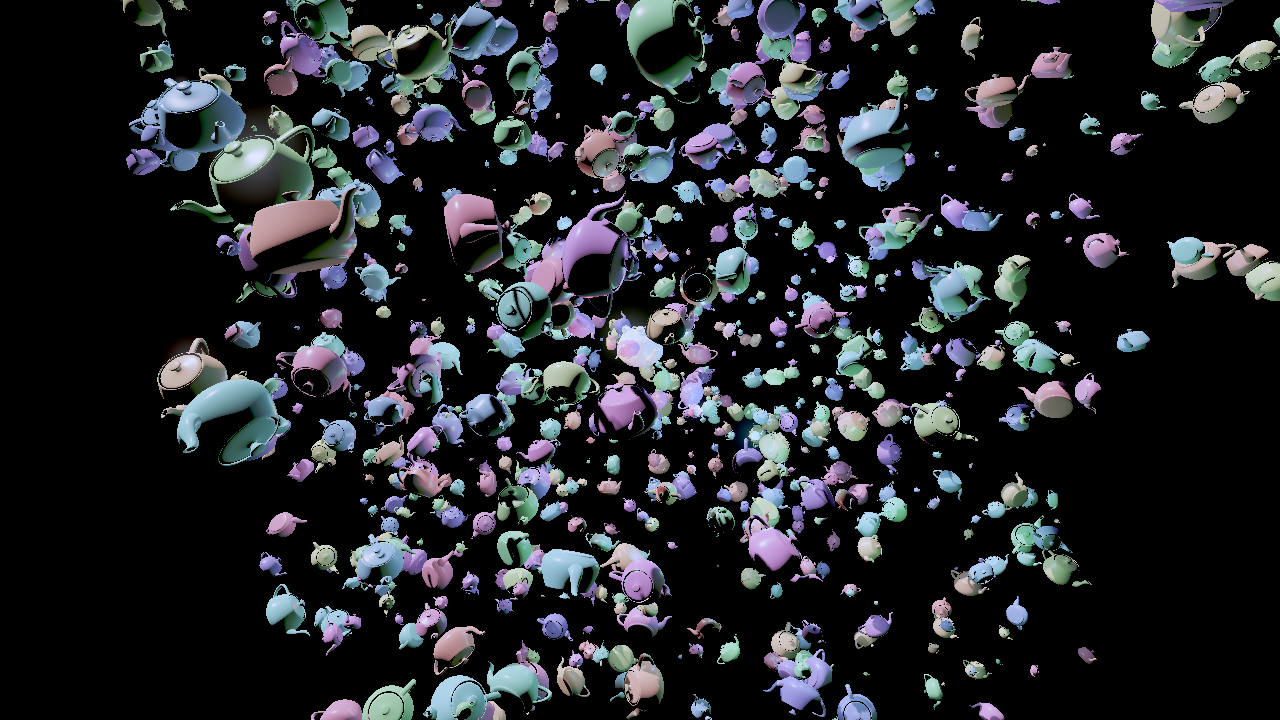
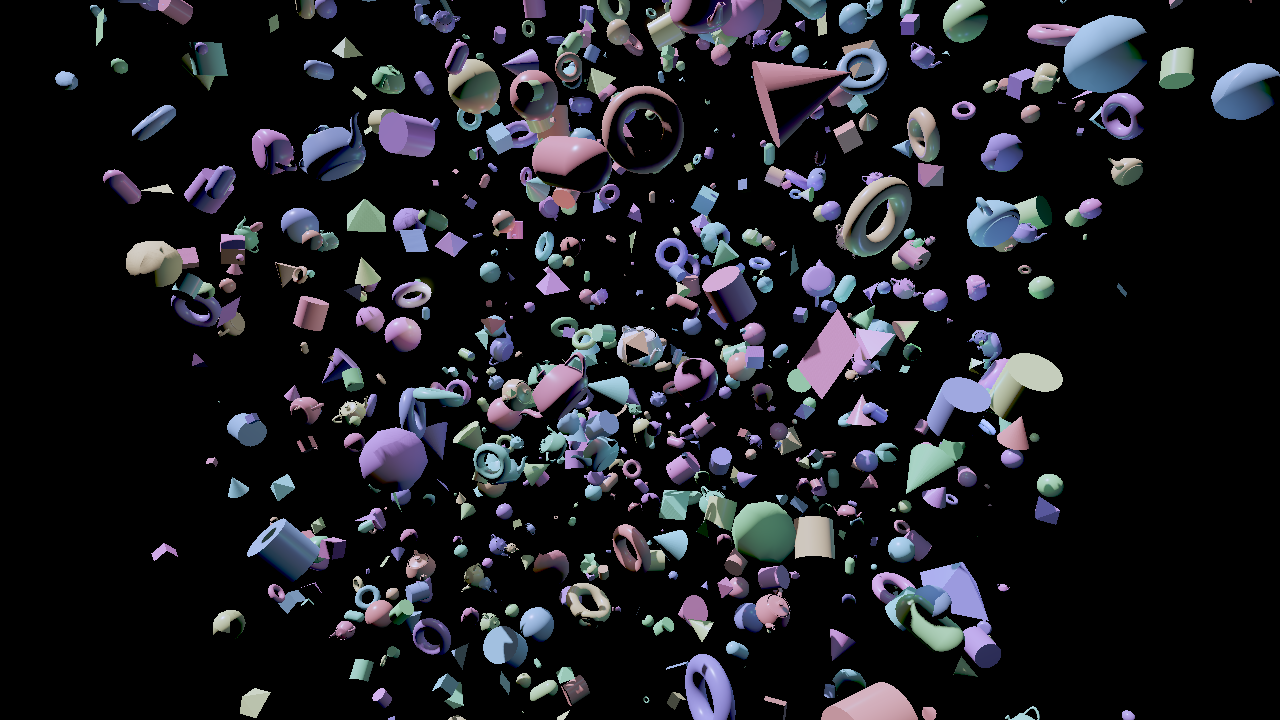
added many new objects

diff --git a/src/application.cpp b/src/application.cpp
@@ -15,6 +15,7 @@ module;
 #include <cstdlib>
 #include <random>
 #include <string>
+#include <filesystem>
 #include <vector>
 #include <gainput/gainput.h>
 #include <ScreenGrab.h>
@@ -347,6 +348,8 @@ void Application::update()
 
         std::uniform_real_distribution<float> hueDist(0.0f, 360.0f);
 
+        std::uniform_real_distribution<float> speedDist(0.1f, 0.5f);
+
         auto spawnOne = [&] {
             const vec3 axis =
                 normalize(vec3(axisDist(scene.rng), axisDist(scene.rng), axisDist(scene.rng)));
@@ -354,14 +357,21 @@ void Application::update()
                 vec3(axisDist(scene.rng), axisDist(scene.rng), axisDist(scene.rng)) *
                 this->cam.radius / 2.0f;
             const float s = scaleDist(scene.rng);
+            const float angle = angleDist(scene.rng);
             const mat4 world =
-                scale(s, s, s) * rotateAxis(axis, angleDist(scene.rng)) *
+                scale(s, s, s) * rotateAxis(axis, angle) *
                 translate(pos.x, pos.y, pos.z);
             Transform tf;
             tf.world = world;
             MeshRef mesh = scene.spawnableMeshRefs[meshDist(scene.rng)];
             mesh.albedoOverride = hslToLinear(hueDist(scene.rng), 0.7f, 0.65f);
-            scene.ecsWorld.entity().set(tf).set(mesh);
+
+            float orbitRadius = std::sqrt(pos.x * pos.x + pos.z * pos.z);
+            float orbitAngle = std::atan2(pos.z, pos.x);
+            Animated anim{ speedDist(scene.rng), orbitRadius, orbitAngle, pos.y,
+                           s, axis, angle, angleDist(scene.rng) };
+
+            scene.ecsWorld.entity().set(tf).set(mesh).set(anim);
         };
 
         int current = scene.ecsWorld.count<MeshRef>();
@@ -405,6 +415,17 @@ void Application::update()
     if (this->inputMap.GetBoolWasDown(Button::ScrollDown)) {
         this->cam.radius *= 1.25f;
     }
+
+    // Animate orbiting entities
+    scene.ecsWorld.each([&](Transform& tf, Animated& anim) {
+        anim.orbitAngle += anim.speed * dt;
+        float pulse = 1.0f + 0.15f * std::sin(lightTime * 2.0f + anim.pulsePhase);
+        float s = anim.initialScale * pulse;
+        vec3 pos(anim.orbitRadius * std::cos(anim.orbitAngle), anim.orbitY,
+                 anim.orbitRadius * std::sin(anim.orbitAngle));
+        tf.world = scale(s, s, s) * rotateAxis(anim.rotAxis, anim.rotAngle) *
+                   translate(pos.x, pos.y, pos.z);
+    });
 }
 
 void Application::render()
@@ -918,6 +939,14 @@ bool Application::loadContent()
     scene.createMegaBuffers(device.Get());
     scene.createDrawDataBuffers(device.Get());
     scene.loadTeapot(device.Get(), cmdQueue);
+
+    // Load all GLB models from resources/models/
+    for (const auto& entry : std::filesystem::directory_iterator(MODELS_DIR)) {
+        if (entry.path().extension() == ".glb") {
+            spdlog::info("Loading model: {}", entry.path().filename().string());
+            scene.loadGltf(entry.path().string(), device.Get(), cmdQueue, true);
+        }
+    }
 
     // DSV heap
     {

diff --git a/src/scene.cpp b/src/scene.cpp
@@ -412,7 +412,9 @@ void Scene::loadTeapot(ID3D12Device2* device, CommandQueue& cmdQueue)
 // Scene::loadGltf
 // ---------------------------------------------------------------------------
 
-bool Scene::loadGltf(const std::string& path, ID3D12Device2* device, CommandQueue& cmdQueue)
+bool Scene::loadGltf(
+    const std::string& path, ID3D12Device2* device, CommandQueue& cmdQueue, bool append
+)
 {
     spdlog::info("loadGltf: {}", path);
 
@@ -436,7 +438,11 @@ bool Scene::loadGltf(const std::string& path, ID3D12Device2* device, CommandQueu
         return false;
     }
 
-    clearScene(cmdQueue);
+    if (!append) {
+        clearScene(cmdQueue);
+    }
+
+    int materialBaseIdx = static_cast<int>(materials.size());
 
     if (model.materials.empty()) {
         Material def;
@@ -527,15 +533,18 @@ bool Scene::loadGltf(const std::string& path, ID3D12Device2* device, CommandQueu
                     }
                 }
 
-                int matIdx = (prim.material >= 0 && prim.material < (int)materials.size())
-                                 ? prim.material
-                                 : 0;
+                int matIdx =
+                    (prim.material >= 0)
+                        ? materialBaseIdx + prim.material
+                        : 0;
                 MeshRef meshRef =
                     appendToMegaBuffers(cmdList, verts, indices, matIdx, uploadTemps);
                 spawnableMeshRefs.push_back(meshRef);
-                Transform tf;
-                tf.world = worldTf;
-                ecsWorld.entity().set(tf).set(meshRef);
+                if (!append) {
+                    Transform tf;
+                    tf.world = worldTf;
+                    ecsWorld.entity().set(tf).set(meshRef);
+                }
             }
         }
 

diff --git a/AGENTS.md b/AGENTS.md
@@ -29,10 +29,11 @@ cmake --build build --config Release
 ### Rules
 - After any change: build then run `--test` and inspect `screenshot.png`
 - **After finishing every task**: always run `--test`, read `screenshot.png` with the Read tool, and visually verify the result looks correct before reporting done
+- **After every change**: update `AGENTS.md` to reflect any new or modified architecture, modules, rendering pipeline steps, UI panels, key patterns, or dependencies. Keep it accurate and current.
 - Before commiting:
   - `git pull`
   - Run clang-tidy and clang-format on all source and header files
-  - Make updates to `AGENTS.md`
+  - Verify `AGENTS.md` is up to date
 
 ---
 
@@ -52,7 +53,7 @@ From-scratch DirectX 12 renderer. C++23 modules, Clang, Windows-only.
 | `camera.ixx`        | Base Camera + OrbitCamera (spherical yaw/pitch/radius)                       |
 | `input.ixx`         | Button/Key enums, gainput integration                                        |
 | `common.ixx`        | Math types (vec2/3/4, mat4), `chkDX()`, `_deg`/`_KB`/`_MB` literals          |
-| `ecs_components.ixx`| ECS components: `Transform` (mat4 world), `MeshRef` (mega-buffer offsets)    |
+| `ecs_components.ixx`| ECS components: `Transform`, `MeshRef`, `Animated` (orbit + pulse)           |
 | `shader_hotreload.ixx` | `ShaderCompiler` class — watches HLSL files, recompiles via DXC at runtime |
 | `logging.ixx`       | spdlog setup with custom error sink                                          |
 
@@ -80,20 +81,25 @@ Application owns three subsystem instances: `Scene scene`, `BloomRenderer bloom`
 ### Application class (`src/application.cpp`)
 Thin orchestrator — owns the render loop, swap chain, scene PSO, and input:
 - **Swap chain**: triple-buffered, `R8G8B8A8_UNORM`.
-- **Scene PSO + root signature**: SRV descriptor table + 1 root constant (`drawIndex`).
+- **Root signature**: 3 root params — SRV descriptor table (t0, structured buffer), 1 root constant (`drawIndex`, b0), SRV descriptor table (t1, shadow map). Static comparison sampler (s0) for shadow PCF.
+- **Scene PSO**: standard rasterization to HDR RT. **Shadow PSO**: depth-only, front-face culling, depth bias.
 - **Vertex format**: `VertexPBR` — position (float3), normal (float3), UV (float2).
 - Delegates to subsystems: `scene.*`, `bloom.*`, `imguiLayer.*`.
-- **Shader hot reload**: polls `.hlsl` timestamps every 0.5s in `update()`, recompiles via `dxc.exe`, recreates PSOs. Scene PSO via `createScenePSO()`, bloom PSOs via `bloom.reloadPipelines()`. Enabled automatically when `DXC_PATH` and `SHADER_SRC_DIR` are set (CMake provides both).
+- **Shader hot reload**: polls `.hlsl` timestamps every 0.5s in `update()`, recompiles via `dxc.exe`, recreates PSOs. Scene PSO + shadow PSO via `createScenePSO()` / `createShadowPSO()`, bloom PSOs via `bloom.reloadPipelines()`. Enabled automatically when `DXC_PATH` and `SHADER_SRC_DIR` are set (CMake provides both).
+- **Animation system**: `update()` runs `ecsWorld.each<Transform, Animated>()` — orbits entities around the Y axis at individual speeds, applies sinusoidal scale pulse (±15%). Central teapot has no `Animated` component and stays stationary.
 
 ### Rendering pipeline
 
 ```
 update()  →  render()
-              ├─ Scene pass       (HDR RT, depth, per-mesh draw calls)
+              ├─ Shadow pass      (depth-only to 2048² shadow map, directional light ortho VP)
+              ├─ Scene pass       (HDR RT, depth, per-mesh draw calls, samples shadow map)
               ├─ Bloom prefilter  → downsample chain → upsample chain
               ├─ Composite        (HDR + bloom → swap chain backbuffer)
               └─ ImGui overlay    (directly to backbuffer)
 ```
+
+**Shadow mapping**: 2048×2048 `R32_TYPELESS`/`D32_FLOAT` depth texture. Orthographic projection from directional light. 3×3 PCF via `SampleCmpLevelZero`. Shadow draw data stored at structured buffer offset `entityCount` (same model transforms, light viewProj). Shadow PSO uses front-face culling + depth bias to reduce peter-panning/acne.
 
 **Bloom**: 5-mip chain — prefilter (Karis average, soft threshold), 4× downsample, 4× upsample (tent filter, additive blend).
 
@@ -105,20 +111,24 @@ Cook-Torrance BRDF:
 - **Geometry**: Smith + Schlick-GGX
 - **Fresnel**: Schlick approximation
 - **Inputs** (from `SceneConstantBuffer`): albedo RGBA, roughness, metallic, emissive color + strength
-- Single punctual light with scaled inverse-square attenuation (`1 / max(d² × 0.01, ε)`).
+- 8 animated point lights with scaled inverse-square attenuation (`1 / max(d² × 0.01, ε)`).
+- 1 directional light (shadow-casting) — direction, color, brightness configurable in UI.
 
 ### Scene loading
 - **Default**: teapot OBJ embedded as Win32 resource (`IDR_TEAPOT_OBJ`/`IDR_TEAPOT_MTL`).
+- **Startup model loading**: all `.glb` files in `resources/models/` are loaded automatically at startup via `MODELS_DIR` (CMake-defined). Spawned entities pick randomly from all loaded mesh refs.
 - **GLB/glTF**: tinygltf v2.9.5 via FetchContent. Load from UI "Load GLB" panel (type path, press Load).
   - Supports binary GLB and ASCII glTF.
   - Extracts POSITION, NORMAL, TEXCOORD_0, indices (any component type).
   - Loads PBR metallic-roughness material factors (base color, roughness, metallic, emissive).
   - Traverses node hierarchy with TRS / matrix transforms.
+- **Model files**: stored in `resources/models/` (teapot.obj/mtl + GLB primitives).
 
 ### ImGui UI panels
 - **Bloom**: threshold, intensity sliders.
 - **Tonemapping**: tonemapper combo.
-- **Scene**: background color, light brightness, ambient brightness.
+- **Scene**: background color; directional light direction/color/brightness; point light brightness; ambient brightness.
+- **Shadows**: enable/disable, bias slider.
 - **Material**: albedo, roughness, metallic, emissive color + strength. Material selector when GLB has multiple.
 - **Load GLB**: path input + Load button + Reset-to-Teapot button.
 
@@ -148,6 +158,9 @@ Cook-Torrance BRDF:
 
 ### GPU upload buffer lifetime
 Intermediate upload heaps from `UpdateSubresources` **must** stay alive until after `cmdQueue.waitForFenceVal()`. Pass a `vector<ComPtr<ID3D12Resource>>& temps` to `uploadMesh` and clear it only after the GPU wait.
+
+### SceneConstantBuffer layout
+Must match `SceneCB` in both HLSL shaders exactly. Current fields: `model`, `viewProj`, `cameraPos`, `ambientColor`, `lightPos[8]`, `lightColor[8]`, `albedo`, roughness/metallic/emissiveStrength/_pad, `emissive`, `dirLightDir`, `dirLightColor`, `lightViewProj`, shadowBias/shadowMapTexelSize/_pad2[2].
 
 ### XMMATRIX alignment
 `SceneConstantBuffer` contains `XMMATRIX` members — declare on the stack with `alignas(16)`:
